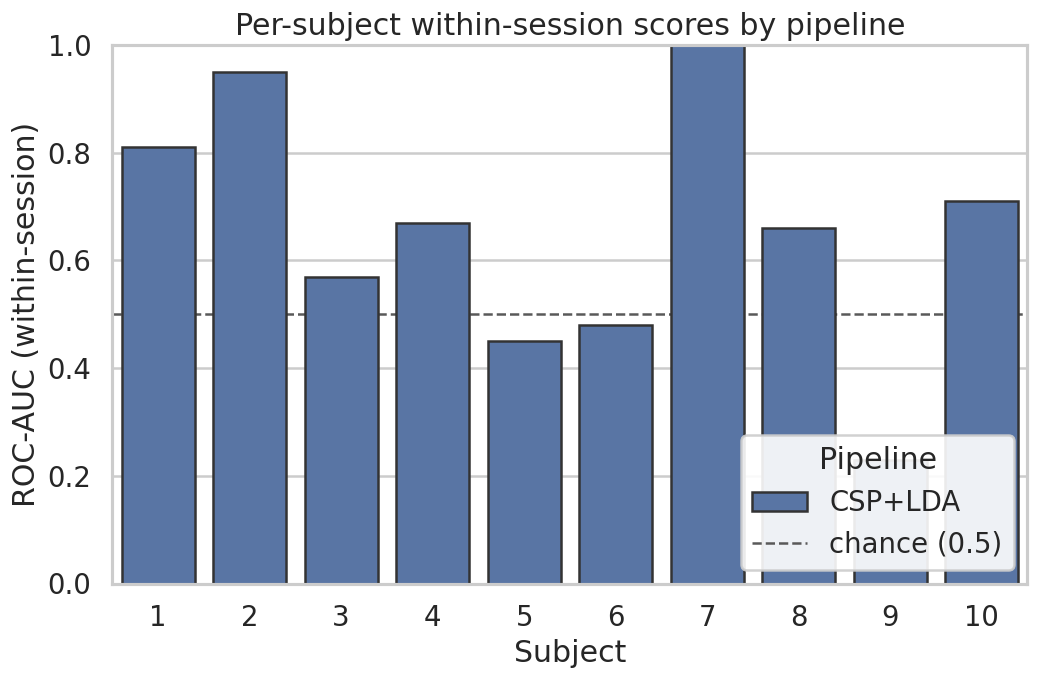
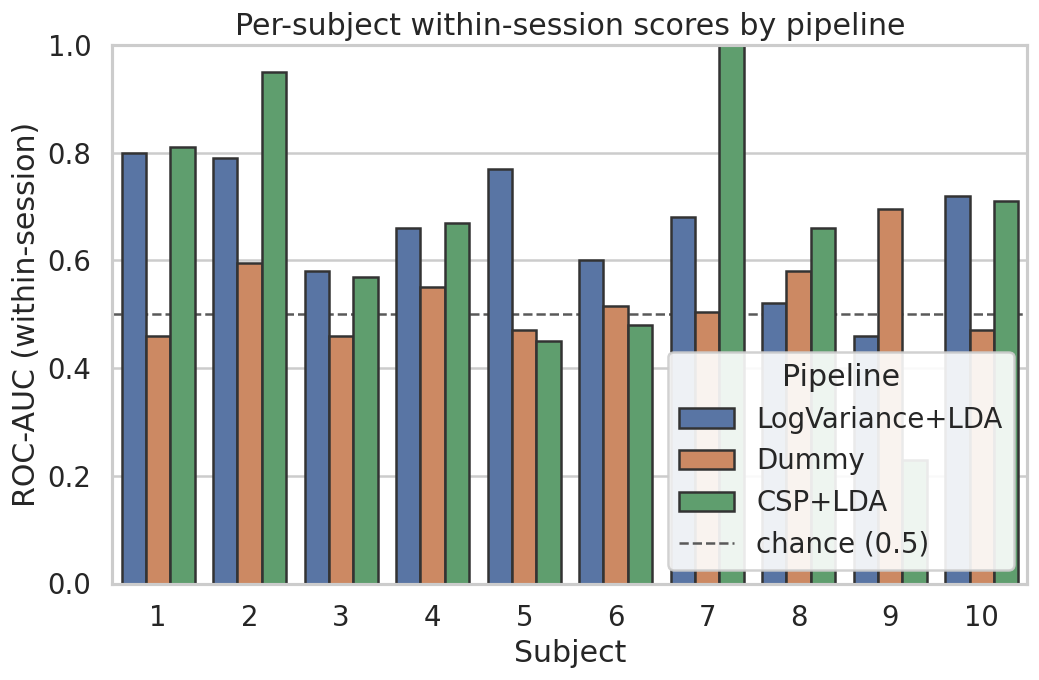
feat: add v0.4 dummy and LogVariance+LDA baselines
Run Dummy/chance and LogVariance+LDA under the same within-session
MOABB evaluation as CSP+LDA (subjects 1-10, ROC-AUC). Regenerate
aggregate summary and multi-pipeline figures with chance reference.

Changed region(s): [[0.3696, 0.0618, 0.9856, 0.8647], [0.1232, 0.0926, 0.3696, 0.8647]]

diff --git a/scripts/run_baseline.py b/scripts/run_baseline.py
@@ -1,18 +1,19 @@
 #!/usr/bin/env python3
-"""Run the version 0.2 within-session CSP+LDA baseline benchmark.
+"""Run the version 0.4 within-session baseline benchmark.
 
 This script wires together datasets -> pipelines -> evaluation -> results for
-the first reproducible MOABB benchmark of the project:
+the reproducible MOABB benchmark of the project:
 
     - Dataset:    MOABB ``PhysionetMI`` (subjects 1-10 by default).
     - Paradigm:   MOABB ``LeftRightImagery`` (left_hand vs right_hand,
                   fmin=8, fmax=32 Hz).
     - Evaluation: MOABB ``WithinSessionEvaluation`` with a fixed seed.
-    - Pipeline:   CSP+LDA (fixed CSP component count from ``config``).
+    - Pipelines:  CSP+LDA, Dummy (chance), LogVariance+LDA (same evaluation).
     - Metric:     ROC-AUC (binary chance level 0.5).
 
-The raw per-subject/session/pipeline result table is written to
-``results/baseline_results.csv``.
+All pipelines are passed to a single ``WithinSessionEvaluation`` so they share
+identical splits. The raw per-subject/session/pipeline result table is written
+to ``results/baseline_results.csv``.
 
 On first run MOABB downloads the PhysionetMI EEG recordings into its local
 (repository-ignored) cache; this can take several minutes. Subsequent runs
@@ -21,7 +22,7 @@ made: this is a transparent within-session classification baseline only.
 
 Usage:
     python scripts/run_baseline.py
-    python scripts/run_baseline.py --subjects 1 2 3 --include-dummy
+    python scripts/run_baseline.py --subjects 1 2 3 --overwrite
 """
 
 from __future__ import annotations
@@ -60,11 +61,6 @@ def parse_args(argv: list[str] | None = None) -> argparse.Namespace:
         help=f"Output CSV path (default: {DEFAULT_OUTPUT}).",
     )
     parser.add_argument(
-        "--include-dummy",
-        action="store_true",
-        help="Also run the chance/dummy baseline alongside CSP+LDA.",
-    )
-    parser.add_argument(
         "--overwrite",
         action="store_true",
         help="Recompute results, ignoring MOABB's evaluation cache.",
@@ -80,9 +76,9 @@ def main(argv: list[str] | None = None) -> int:
     args = parse_args(argv)
 
     subjects = args.subjects if args.subjects is not None else list(config.SUBJECTS)
-    pipeline_registry = pipelines.build_pipelines(include_dummy=args.include_dummy)
+    pipeline_registry = pipelines.build_pipelines()
 
-    logger.info("=== bci-motor-imagery-classifier v0.2 baseline ===")
+    logger.info("=== bci-motor-imagery-classifier v0.4 baselines ===")
     logger.info("Dataset:    %s", config.DATASET_NAME)
     logger.info("Paradigm:   %s (fmin=%s, fmax=%s)", config.PARADIGM, config.FMIN, config.FMAX)
     logger.info("Classes:    %s", " vs ".join(config.CLASSES))

diff --git a/src/bci_mi_classifier/pipelines.py b/src/bci_mi_classifier/pipelines.py
@@ -88,11 +88,11 @@ def _flatten_epochs(X: Any) -> Any:
 
 
 def build_logvar_lda() -> Any:
-    """Build the optional LogVariance+LDA pipeline.
+    """Build the LogVariance+LDA pipeline.
 
     Composes a log-variance band-power feature transform with
-    ``LinearDiscriminantAnalysis`` as a simple comparison baseline. Deferred for
-    version 0.2; provided for completeness and not registered by default.
+    ``LinearDiscriminantAnalysis`` as a simple comparison baseline. Features are
+    computed per trial from the filtered epochs; no test-set tuning is applied.
 
     Returns:
         A scikit-learn ``Pipeline`` (log-variance -> LDA).
@@ -116,20 +116,23 @@ def _log_variance(X: Any) -> Any:
     return np.log(np.var(arr, axis=-1) + 1e-12)
 
 
-def build_pipelines(include_dummy: bool = False) -> dict[str, Any]:
+def build_pipelines() -> dict[str, Any]:
     """Return the mapping of pipeline name to estimator for the benchmark.
 
-    CSP+LDA is always included as the primary version 0.2 baseline. The
-    chance/dummy baseline is optional (off by default for the headline run);
-    LogVariance+LDA and Riemannian pipelines are deferred.
+    Version 0.4 evaluates three classical baselines under the same
+    within-session protocol:
 
-    Args:
-        include_dummy: If ``True``, also register the chance/dummy baseline.
+        - CSP+LDA          : primary motor imagery baseline.
+        - Dummy            : chance/sanity-check baseline (~0.5 ROC-AUC).
+        - LogVariance+LDA  : simple feature baseline for comparison.
+
+    Riemannian geometry pipelines remain deferred.
 
     Returns:
         Mapping of pipeline name to scikit-learn compatible estimator.
     """
-    pipelines: dict[str, Any] = {"CSP+LDA": build_csp_lda()}
-    if include_dummy:
-        pipelines["Dummy"] = build_dummy()
-    return pipelines
+    return {
+        "CSP+LDA": build_csp_lda(),
+        "Dummy": build_dummy(),
+        "LogVariance+LDA": build_logvar_lda(),
+    }

diff --git a/src/bci_mi_classifier/__init__.py b/src/bci_mi_classifier/__init__.py
@@ -1,16 +1,16 @@
 """bci_mi_classifier - reproducible EEG motor imagery classification package.
 
-Version 0.3 (within-session CSP+LDA benchmark with result analysis + figures).
+Version 0.4 (within-session multi-pipeline baselines with analysis + figures).
 
 This package provides a small, reproducible brain-computer interface (BCI)
 benchmark that classifies left-hand vs right-hand motor imagery from public EEG
 data using MOABB, the PhysionetMI dataset, the LeftRightImagery paradigm, and
 classical machine-learning baselines (primarily CSP+LDA).
 
-As of version 0.3 all benchmark modules are implemented. A within-session
-CSP+LDA run on subjects 1-10 can be executed via ``scripts/run_baseline.py``,
-and the aggregate summary table and figures can be produced from the saved
-results via ``scripts/run_analysis.py``.
+As of version 0.4 all benchmark modules are implemented. A within-session run
+of CSP+LDA, Dummy, and LogVariance+LDA on subjects 1-10 can be executed via
+``scripts/run_baseline.py``, and the aggregate summary table and figures can be
+produced from the saved results via ``scripts/run_analysis.py``.
 
 Modules:
     config         - benchmark constants and configuration.
@@ -21,7 +21,7 @@ Modules:
     visualization  - figures (per-subject, pipeline comparison, distribution).
 """
 
-__version__ = "0.3.0"
+__version__ = "0.4.0"
 
 __all__ = [
     "__version__",

diff --git a/src/bci_mi_classifier/evaluation.py b/src/bci_mi_classifier/evaluation.py
@@ -84,7 +84,7 @@ def run_within_session(
         datasets=[dataset],
         random_state=random_state,
         overwrite=overwrite,
-        suffix="v0_2_baseline",
+        suffix="v0_4_baselines",
     )
 
     results = evaluation.process(pipelines)

diff --git a/README.md b/README.md
@@ -4,8 +4,8 @@ Reproducible EEG motor imagery classification using public BCI data, MOABB, and 
 
 This repository benchmarks left-hand vs right-hand motor imagery classification on the PhysionetMI dataset using a transparent evaluation protocol. The goal is to build a credible foundation for future BCI and neurotechnology work, not to claim a production-ready brain-computer interface.
 
-> **Status: version 0.3 - within-session baseline with results and figures.**
-> The dataset, pipeline, evaluation, result, and visualization modules are implemented. A within-session CSP+LDA benchmark has been run on PhysionetMI subjects 1-10 (`scripts/run_baseline.py`), and the aggregate summary table and figures have been generated from those results (`scripts/run_analysis.py`). The curated result tables (`results/baseline_results.csv`, `results/aggregate_scores.csv`) and figures (`figures/*.png`) are committed; raw EEG recordings and MOABB/MNE caches remain git-ignored and are never committed.
+> **Status: version 0.4 - multi-pipeline within-session baselines with results and figures.**
+> The dataset, pipeline, evaluation, result, and visualization modules are implemented. A within-session benchmark of CSP+LDA, Dummy (chance), and LogVariance+LDA has been run on PhysionetMI subjects 1-10 under a single MOABB evaluation (`scripts/run_baseline.py`), and the aggregate summary table and multi-pipeline figures have been generated from those results (`scripts/run_analysis.py`). The curated result tables (`results/baseline_results.csv`, `results/aggregate_scores.csv`) and figures (`figures/*.png`) are committed; raw EEG recordings and MOABB/MNE caches remain git-ignored and are never committed.
 
 ## Why This Project
 
@@ -45,7 +45,7 @@ Version 1 uses a small, reproducible subject subset:
 
 - Subjects: 1-10.
 - Evaluation: within-session.
-- Primary pipeline: CSP+LDA.
+- Pipelines: CSP+LDA, Dummy (chance), LogVariance+LDA.
 - Primary metric: ROC-AUC.
 
 Version 1 is intentionally **not**:
@@ -66,13 +66,13 @@ Classical motor imagery baseline.
 - LDA performs linear classification on the extracted features.
 - A fixed, documented CSP component count is used as a baseline; it is **not** tuned on test results.
 
-### Dummy / Chance Baseline (optional)
+### Dummy / Chance Baseline
 
-Sanity check against chance-level performance (~0.5 ROC-AUC).
+Sanity check against chance-level performance. Mean binary ROC-AUC should be near 0.5 on average; per-subject scores can deviate with small trial counts.
 
-### LogVariance+LDA (optional)
+### LogVariance+LDA
 
-Simple feature baseline for comparison.
+Simple log-variance band-power features followed by LDA. Included as a transparent feature baseline for comparison with CSP+LDA.
 
 ### Future Riemannian Baseline (deferred)
 
@@ -90,17 +90,19 @@ The benchmark is designed to report:
 
 The first release uses within-session evaluation because the selected MOABB dataset snapshot has one session. Cross-subject evaluation is deferred and will be interpreted separately if added later. See `docs/evaluation_protocol.md` for the full protocol.
 
-## Results (v0.3)
+## Results (v0.4)
 
-These results come from a single within-session MOABB run of the CSP+LDA pipeline on PhysionetMI subjects 1-10 (`LeftRightImagery`, 8-32 Hz, fixed random seed 42, ROC-AUC primary metric, CSP fit inside each cross-validation fold). They are reproducible via `scripts/run_baseline.py` followed by `scripts/run_analysis.py`.
+These results come from a single within-session MOABB run of three pipelines (CSP+LDA, Dummy, LogVariance+LDA) on PhysionetMI subjects 1-10 (`LeftRightImagery`, 8-32 Hz, fixed random seed 42, ROC-AUC primary metric). All pipelines were evaluated in one `WithinSessionEvaluation` call so they share identical splits. Reproduce via `scripts/run_baseline.py` followed by `scripts/run_analysis.py`.
 
-Aggregate within-session ROC-AUC for CSP+LDA across the 10 subjects:
+Aggregate within-session ROC-AUC across the 10 subjects:
 
-| pipeline | metric  | n_subjects | mean  | median | std   | IQR   | min  | max  |
-|----------|---------|-----------:|------:|-------:|------:|------:|-----:|-----:|
-| CSP+LDA  | roc_auc | 10         | 0.653 | 0.665  | 0.234 | 0.283 | 0.23 | 1.00 |
+| pipeline        | metric  | n_subjects | mean  | median | std   | IQR   | min  | max   |
+|-----------------|---------|-----------:|------:|-------:|------:|------:|-----:|------:|
+| CSP+LDA         | roc_auc | 10         | 0.653 | 0.665  | 0.234 | 0.283 | 0.23 | 1.00  |
+| Dummy           | roc_auc | 10         | 0.530 | 0.510  | 0.076 | 0.103 | 0.46 | 0.695 |
+| LogVariance+LDA | roc_auc | 10         | 0.658 | 0.670  | 0.117 | 0.173 | 0.46 | 0.80  |
 
-**Interpretation (cautious).** On the selected subjects, CSP+LDA performed above the binary chance-level ROC-AUC of 0.5 on average (mean 0.653, median 0.665), but scores varied substantially across subjects (from 0.23 to 1.00, std 0.234), and at least one subject fell below chance. These numbers should be read as a classical *within-session* baseline on a small subject subset, **not** as evidence of real-world, real-time, or cross-user BCI reliability, and they carry no clinical, diagnostic, or cognitive interpretation. The full per-subject table is in `results/baseline_results.csv` and the aggregate summary in `results/aggregate_scores.csv`.
+**Interpretation (cautious).** The Dummy baseline averaged near the binary chance-level ROC-AUC of 0.5 (mean 0.530, median 0.510), which supports the sanity of the evaluation setup, though individual subjects can deviate from 0.5 with small trial counts. On the selected subjects, CSP+LDA and LogVariance+LDA both performed above chance on average (means 0.653 and 0.658 respectively), but scores varied substantially across subjects (CSP+LDA std 0.234, range 0.23-1.00; LogVariance+LDA std 0.117, range 0.46-0.80). At least one subject fell below chance for CSP+LDA. These numbers should be read as classical *within-session* baselines on a small subject subset, **not** as evidence of real-world, real-time, or cross-user BCI reliability, and they carry no clinical, diagnostic, or cognitive interpretation. The full per-subject table is in `results/baseline_results.csv` and the aggregate summary in `results/aggregate_scores.csv`.
 
 Per-subject scores (chance level dashed at 0.5):
 
@@ -158,7 +160,7 @@ Core dependencies (planned): `moabb`, `mne`, `scikit-learn`, `pandas`, `numpy`, 
 ### Reproducing the results
 
 ```bash
-# 1. run the within-session CSP+LDA benchmark (downloads data on first use)
+# 1. run the within-session multi-pipeline benchmark (downloads data on first use)
 python3 scripts/run_baseline.py
 
 # 2. generate the aggregate summary table and figures from the saved results
@@ -215,8 +217,8 @@ See `docs/limitations.md` for details.
 
 - Version 0.1: repository structure and documentation. (done)
 - Version 0.2: first MOABB within-session CSP+LDA benchmark on subjects 1-10. (done)
-- Version 0.3: result tables, aggregate summaries, and figures. (done, this release)
-- Version 0.4: dummy and LogVariance+LDA baselines.
+- Version 0.3: result tables, aggregate summaries, and figures. (done)
+- Version 0.4: dummy and LogVariance+LDA baselines. (done, this release)
 - Version 1.0: polished report, stable docs, GitHub-ready release.
 
 Future: full 109-subject benchmark; cross-subject evaluation; Riemannian geometry pipeline; deep learning benchmark; real-time biosignal dashboard (separate project). See `ROADMAP.md`.

diff --git a/ROADMAP.md b/ROADMAP.md
@@ -35,12 +35,12 @@ Result tables, aggregate summaries, and figures from real results.
 - [x] **BCI-502** Create per-subject score figure (with chance level shown).
 - [x] **BCI-503** Create pipeline comparison figure (same metric; cautious interpretation).
 
-## Version 0.4 - Additional Baselines
+## Version 0.4 - Additional Baselines (done)
 
 Add the simple baselines and broaden comparison.
 
-- [ ] **BCI-403** Add chance / dummy baseline (chance level visible in results/figures).
-- [ ] **BCI-404** Add LogVariance+LDA baseline (same evaluation protocol).
+- [x] **BCI-403** Add chance / dummy baseline (chance level visible in results/figures).
+- [x] **BCI-404** Add LogVariance+LDA baseline (same evaluation protocol).
 
 ## Version 1.0 - Documentation and GitHub Polish
 
